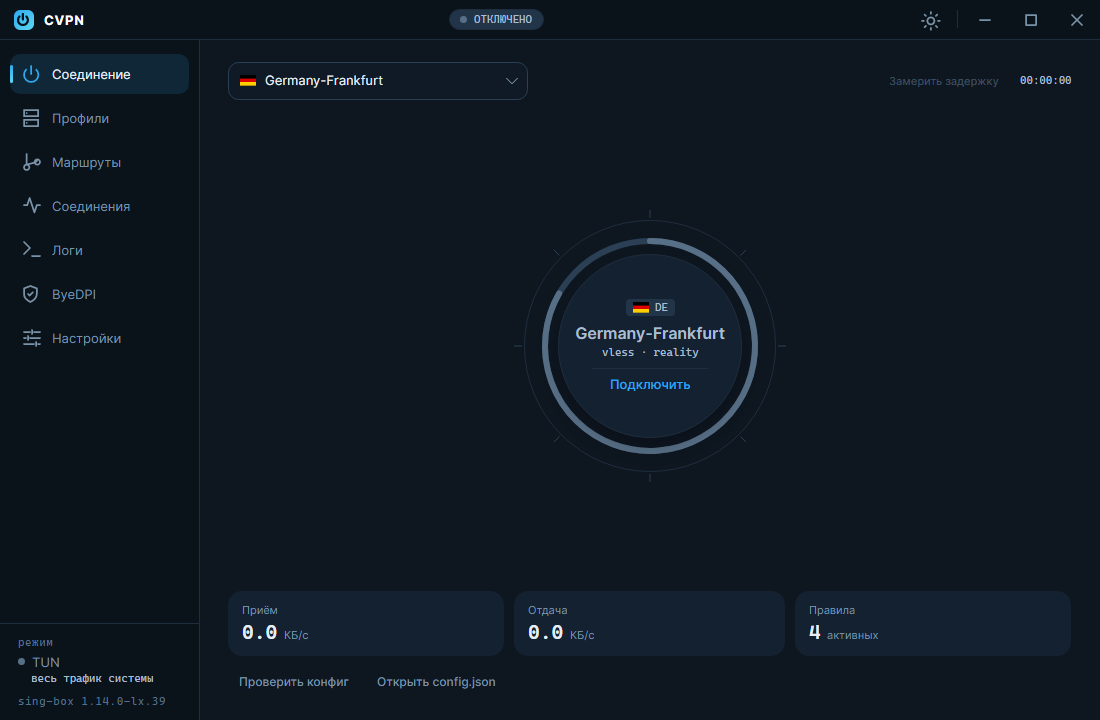
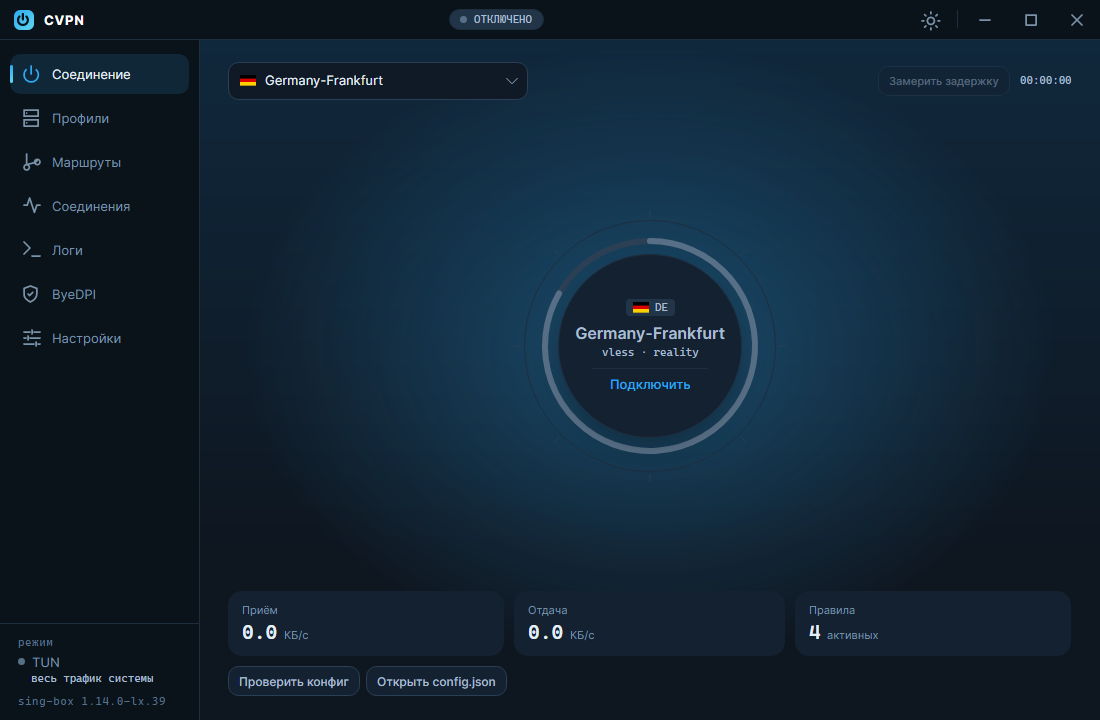
Кнопки с обводкой, лазурный фон главной, вставка профилей из буфера
- Текстовые кнопки без рамки выглядели как надписи: теперь у всех обводка,
  прозрачными остались только кнопки-иконки в строках списков.
  Удаление набора правил - красная кнопка.
- Главная: вертикальный лазурный градиент и сияние за кругом подключения;
  при подключении сияние плавно становится зелёным. Обе темы.
- Профили: главная кнопка «Вставить из буфера» - добавляет все ссылки из
  буфера по одной в строке, одиночный http(s)-адрес считает подпиской.

diff --git a/CVPN.Core/ViewModels/ProfilesViewModel.cs b/CVPN.Core/ViewModels/ProfilesViewModel.cs
@@ -19,6 +19,7 @@ public sealed class ProfilesViewModel : PageViewModel
     public ProfilesViewModel(MainViewModel shell) : base(shell)
     {
         ImportLink = new RelayCommand(Import);
+        PasteLink = new RelayCommand(async () => await PasteAsync(), () => !IsBusy);
         ImportFile = new RelayCommand(async () => await ImportFromFileAsync());
         Create = new RelayCommand(async () => await EditAsync(null));
 
@@ -63,6 +64,7 @@ public sealed class ProfilesViewModel : PageViewModel
     }
 
     public ICommand ImportLink { get; }
+    public ICommand PasteLink { get; }
     public ICommand ImportFile { get; }
     public ICommand Create { get; }
     public ICommand EditProfileCommand { get; }
@@ -114,6 +116,67 @@ public sealed class ProfilesViewModel : PageViewModel
         Shell.Notify(Loc.T("Profiles_Added", profile.Name));
         Shell.Persist();
     }
+
+    /// <summary>
+    /// Импорт из буфера обмена одним нажатием - главное на телефоне, где вставлять
+    /// в поле неудобно. Ссылки по одной в строке добавляются все разом; одиночный
+    /// http(s)-адрес считается ссылкой подписки.
+    /// </summary>
+    private async Task PasteAsync()
+    {
+        string? text;
+        try
+        {
+            text = await Shell.Platform.Clipboard.GetTextAsync();
+        }
+        catch (Exception)
+        {
+            text = null;
+        }
+
+        var lines = (text ?? "").Split(['\r', '\n'],
+            StringSplitOptions.RemoveEmptyEntries | StringSplitOptions.TrimEntries);
+
+        if (lines.Length == 0)
+        {
+            Shell.Notify(Loc.T("Profiles_ClipboardEmpty"));
+            return;
+        }
+
+        if (lines.Length == 1 && IsSubscriptionUrl(lines[0]))
+        {
+            Settings.SubscriptionUrl = lines[0];
+            await UpdateSubscriptionAsync();
+            return;
+        }
+
+        var added = new List<ServerProfile>();
+        var lastError = "";
+
+        foreach (var line in lines)
+        {
+            if (LinkParser.TryParse(line, out var profile, out var error)) added.Add(profile);
+            else lastError = error;
+        }
+
+        if (added.Count == 0)
+        {
+            Shell.Notify(lastError.Length > 0 ? lastError : Loc.T("Profiles_ClipboardEmpty"));
+            return;
+        }
+
+        foreach (var profile in added) Profiles.Add(profile);
+        Shell.Active ??= added[0];
+        Shell.Persist();
+
+        Shell.Notify(added.Count == 1
+            ? Loc.T("Profiles_Added", added[0].Name)
+            : Loc.T("Profiles_AddedMany", added.Count));
+    }
+
+    internal static bool IsSubscriptionUrl(string text) =>
+        text.StartsWith("https://", StringComparison.OrdinalIgnoreCase)
+        || text.StartsWith("http://", StringComparison.OrdinalIgnoreCase);
 
     /// <summary>Принимает конфиг sing-box, массив outbound'ов или одиночный объект.</summary>
     private async Task ImportFromFileAsync()
